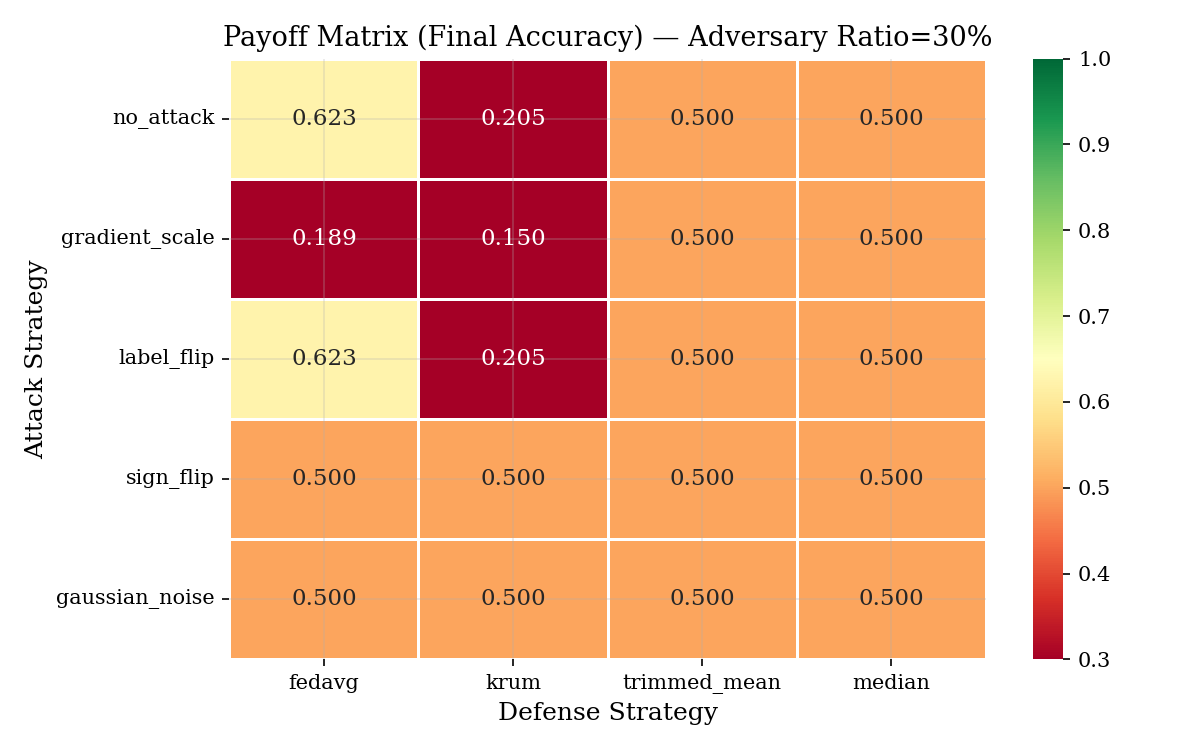
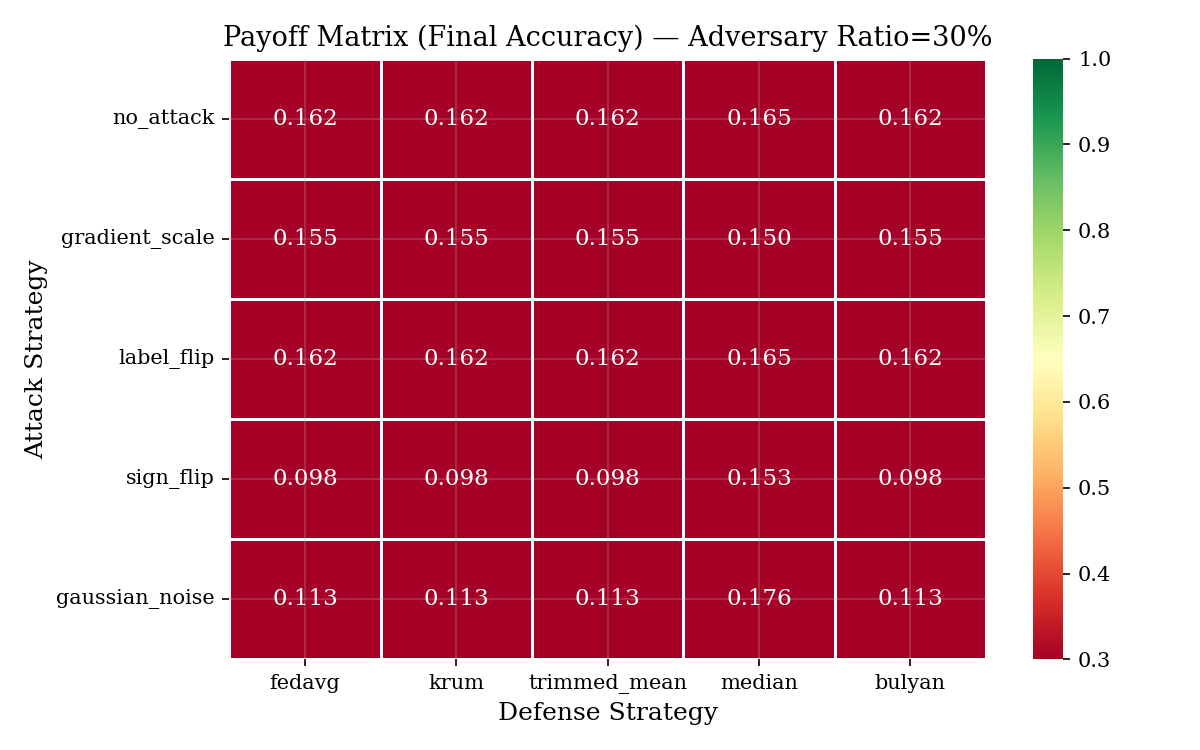
Fix Bulyan aggregator bug and update quick experiment configuration

diff --git a/experiments/run_experiments_quick.py b/experiments/run_experiments_quick.py
@@ -5,8 +5,8 @@ from experiments.run_experiments import run_full_grid, run_game_analysis, genera
 
 if __name__ == '__main__':
     ADVERSARY_RATIOS = [0.3]
-    ATTACK_TYPES     = ['gradient_scale', 'label_flip']
-    DEFENSE_TYPES    = ['fedavg']
+    ATTACK_TYPES     = ['no_attack', 'gradient_scale', 'label_flip', 'sign_flip', 'gaussian_noise']
+    DEFENSE_TYPES    = ['fedavg', 'krum', 'trimmed_mean', 'median', 'bulyan']
     ROUNDS           = 1
     N_CLIENTS        = 4
     SAVE_DIR         = './results'

diff --git a/server/aggregator.py b/server/aggregator.py
@@ -144,6 +144,8 @@ class FederatedServer:
         
         # Now apply Trimmed Mean on the selected theta updates
         # Usually Bulyan uses a specific trimming (n - 4f) but we'll use a standard trimmed mean
+        if not selected_updates:
+            return self._fedavg(updates)
         return self._trimmed_mean(selected_updates, trim_ratio=0.1)
 
     def _trimmed_mean(self, updates, trim_ratio=0.2):
